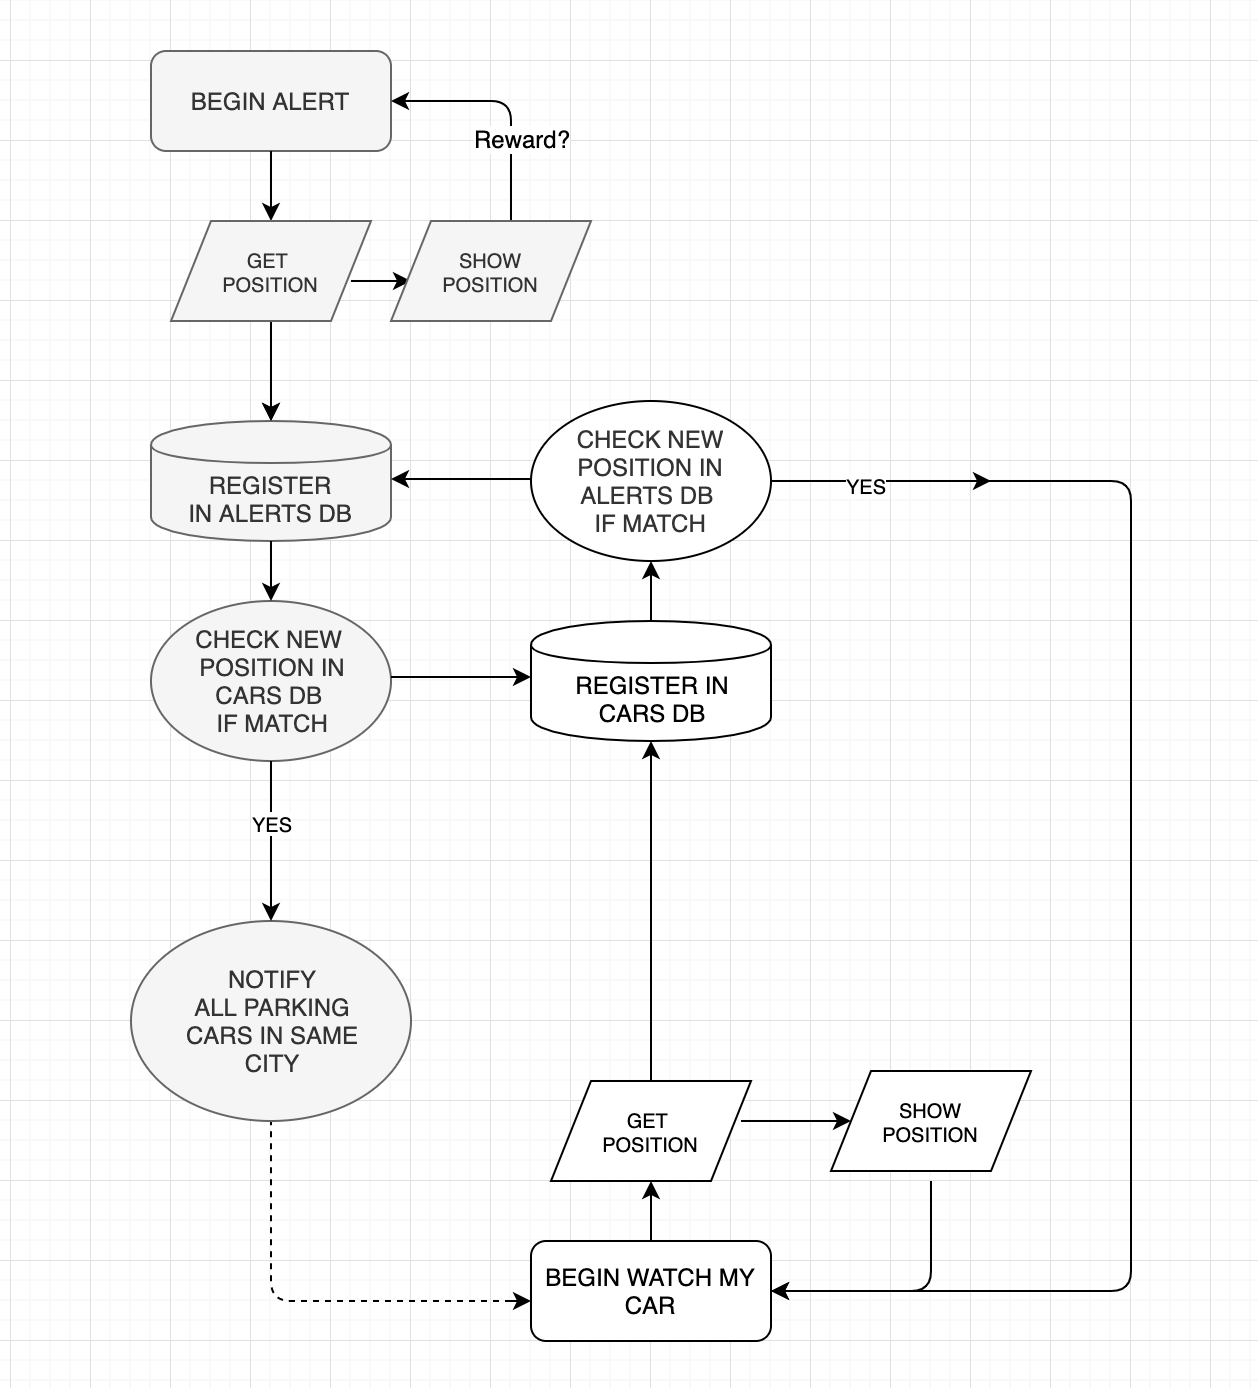
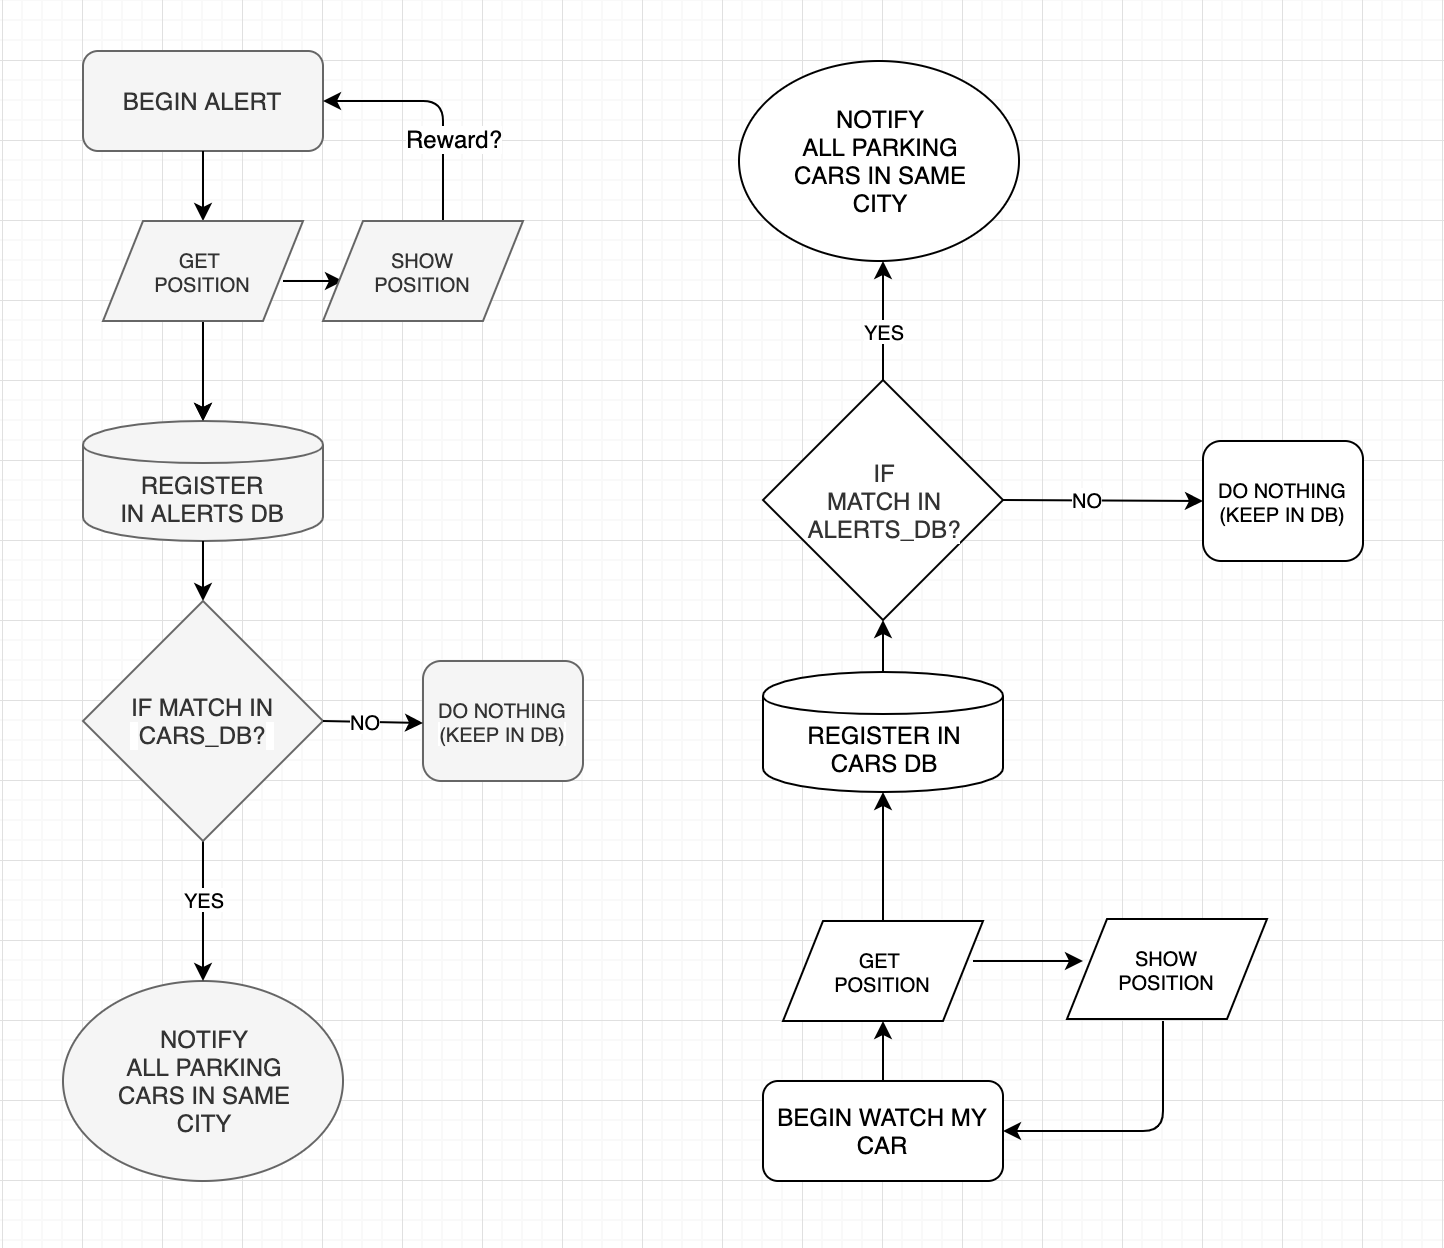
Both Alert and Cars register and check if match. Refactored

diff --git a/src/app.js b/src/app.js
@@ -1,5 +1,10 @@
 const fs = require("fs");
 const path = require("path");
+const lib = require("./lib");
+const theyAreHere = require("./they-are-here");
+const watchMyCar = require("./watch-my-car");
+
+//dependencies
 const express = require("express");
 const hbs = require("hbs");
 const request = require("postman-request");
@@ -13,7 +18,6 @@ const app = express();
 const publicDirectoryPath = path.join(__dirname, "../public");
 const viewsPath = path.join(__dirname, "../templates/views");
 const partialsPath = path.join(__dirname, "../templates/partials");
-const DB_Path_Alerts = path.join(__dirname, "../db/alerts");
 
 //Handlebars setup and views location
 app.set("view engine", "hbs");
@@ -33,64 +37,65 @@ app.get("/api", (req, res) => {
   let latAndLong = req.query.latlng;
   let todo = req.query.todo;
   const url = `https://maps.googleapis.com/maps/api/geocode/json?latlng=${latAndLong}&key=${API_KEY}`;
+
   request({ url: url }, (error, response) => {
     if (error) {
       return console.log(error);
     }
     const data = response.body;
+
+    //return position to user
     res.json(data);
 
+    //Register and compare positions
     if (todo === "they-are-here") {
-      writeToDB(data);
+      theyAreHere(lib.getPosition(data));
     } else if (todo === "watch-my-car") {
-      watchMyCar(data);
+      watchMyCar(lib.getPosition(data));
     }
   });
 });
 
-const writeToDB = (data) => {
-  //retrieve position data: Country, city, area, street and street number
-  const dataObject = JSON.parse(data);
-  const country = dataObject.results[0].address_components[5].long_name;
-  const city = dataObject.results[0].address_components[3].short_name;
-  const area = dataObject.results[0].address_components[2].short_name;
-  const street = dataObject.results[0].address_components[1].long_name;
-  const streetNumber = dataObject.results[0].address_components[0].long_name;
+// const watchMyCar = (data) => {
+//   //retrieve position data: Country, city, area, street and street number
+//   const dataObject = JSON.parse(data);
+//   const country = dataObject.results[0].address_components[5].long_name;
+//   const city = dataObject.results[0].address_components[3].short_name;
+//   const area = dataObject.results[0].address_components[2].short_name;
+//   const street = dataObject.results[0].address_components[1].long_name;
+//   const streetNumber = dataObject.results[0].address_components[0].long_name;
 
-  //Store data in object
-  const position = {
-    city,
-    area,
-    street,
-    streetNumber
-  };
-
-  //if new country or first time, create a new json file and push in new position. Else push to existing
-  if (fs.existsSync(DB_Path_Alerts + "/" + country + ".json")) {
-    console.log("The path exists.");
-    const db = require(DB_Path_Alerts + "/" + country + ".json");
-    const actualDB = db;
-    actualDB.push(position);
-    try {
-      fs.writeFileSync(
-        DB_Path_Alerts + "/" + country + ".json",
-        JSON.stringify(actualDB, null, 2)
-      );
-    } catch (err) {
-      console.log("Error writing Metadata.json:" + err.message);
-    }
-    //Push new postion to existing .json file
-  } else {
-    try {
-      fs.writeFileSync(
-        DB_Path_Alerts + "/" + country + ".json",
-        JSON.stringify([position], null, 2)
-      );
-    } catch (err) {
-      console.log("Error writing Metadata.json:" + err.message);
-    }
-  }
-};
+//   //Store data in object
+//   const position = {
+//     city,
+//     area,
+//     street,
+//     streetNumber
+//   };
+//   if (fs.existsSync(DB_Path_Cars + "/" + country + ".json")) {
+//     const db = require(DB_Path_Cars + "/" + country + ".json");
+//     const actualDB = db;
+//     actualDB.push(position);
+//     try {
+//       fs.writeFileSync(
+//         DB_Path_Cars + "/" + country + ".json",
+//         JSON.stringify(actualDB, null, 2)
+//       );
+//     } catch (err) {
+//       console.log("Error writing Metadata.json:" + err.message);
+//     }
+//     //Push new postion to existing .json file
+//   } else {
+//     try {
+//       fs.writeFileSync(
+//         DB_Path_Cars + "/" + country + ".json",
+//         JSON.stringify([position], null, 2)
+//       );
+//     } catch (err) {
+//       console.log("Error writing Metadata.json:" + err.message);
+//     }
+//   }
+// };
 
 //Return 404 page
 app.get("*", (req, res) => {

diff --git a/src/lib.js b/src/lib.js
@@ -1,0 +1,79 @@
+const fs = require("fs");
+
+//retrieve position data: Country, city, area, street and street number
+const getPosition = (data) => {
+  const dataObject = JSON.parse(data);
+  const country = dataObject.results[0].address_components[5].long_name;
+  const city = dataObject.results[0].address_components[3].short_name;
+  const area = dataObject.results[0].address_components[2].short_name;
+  const street = dataObject.results[0].address_components[1].long_name;
+  const streetNumber = dataObject.results[0].address_components[0].long_name;
+
+  //Store data in object
+  const position = {
+    country,
+    city,
+    area,
+    street,
+    streetNumber
+  };
+  return position;
+};
+
+//Register position in equivalent DB
+const registerInDB = (position, databasePath) => {
+  //if new country or first time, create a new json file and push in new position. Else push to existing
+  if (fs.existsSync(databasePath + "/" + position.country + ".json")) {
+    const db = require(databasePath + "/" + position.country + ".json");
+    const actualDB = db;
+    actualDB.push(position);
+    try {
+      fs.writeFileSync(
+        databasePath + "/" + position.country + ".json",
+        JSON.stringify(actualDB, null, 2)
+      );
+    } catch (err) {
+      console.log("Error writing Metadata.json:" + err.message);
+    }
+    //Push new postion to existing .json file
+  } else {
+    try {
+      fs.writeFileSync(
+        databasePath + "/" + position.country + ".json",
+        JSON.stringify([position], null, 2)
+      );
+    } catch (err) {
+      console.log("Error writing Metadata.json:" + err.message);
+    }
+  }
+};
+
+const checkIfMatch = (position, databasePath) => {
+  //Check if city matches
+  if (fs.existsSync(databasePath + "/" + position.country + ".json")) {
+    const db = require(databasePath + "/" + position.country + ".json");
+    const match = db.filter((element) => element.city === position.city);
+
+    if (match[0]) {
+      console.log(
+        `${
+          databasePath.includes("cars") ? "CarsDB" : "AlertsDB"
+        } exist and there is a match!`,
+        match[0]
+      );
+    } else {
+      console.log(
+        `${
+          databasePath.includes("cars") ? "CarsDB" : "AlertsDB"
+        } exist but there's NO match`,
+        match[0]
+      );
+    }
+  } else {
+    console.log(
+      `${databasePath.includes("cars") ? "CarsDB" : "AlertsDB"} does NOT exist`
+    );
+  }
+};
+
+module.exports = { getPosition, registerInDB, checkIfMatch };

diff --git a/src/they-are-here.js b/src/they-are-here.js
@@ -1,0 +1,15 @@
+const path = require("path");
+const lib = require("./lib");
+
+//Database path to Alerts
+const DB_Path_Alerts = path.join(__dirname, "../db/alerts");
+const DB_Path_Cars = path.join(__dirname, "../db/cars");
+
+const theyAreHere = (position) => {
+  //Register postion in Alerts DB
+  lib.registerInDB(position, DB_Path_Alerts);
+  //Check if Alert position.city is in Cars DB
+  lib.checkIfMatch(position, DB_Path_Cars);
+};
+
+module.exports = theyAreHere;

diff --git a/src/watch-my-car.js b/src/watch-my-car.js
@@ -1,0 +1,15 @@
+const path = require("path");
+const lib = require("./lib");
+
+//Database path to Alerts
+const DB_Path_Alerts = path.join(__dirname, "../db/alerts");
+const DB_Path_Cars = path.join(__dirname, "../db/cars");
+
+const watchMyCar = (position) => {
+  //Register postion in Alerts DB
+  lib.registerInDB(position, DB_Path_Cars);
+  //Check if Alert position.city is in Cars DB
+  lib.checkIfMatch(position, DB_Path_Alerts);
+};
+
+module.exports = watchMyCar;

diff --git a/README.md b/README.md
@@ -5,7 +5,7 @@ The app will be able to do two things:
 
 1. When user parks a car, user presses "Watch car button". This enables the app to "watch" if there are any parking attendants nerby. If so, user gets notified. 
 2. When user see parking attendants, press "Alert" to notify users with parked cars nearby. 
-3. The time for the "Watch" activity will be aprox. 10 min. 
+(The time for the "Watch" activity will be aprox. 10 min.)
 
 # Requirements to run the application.
 
